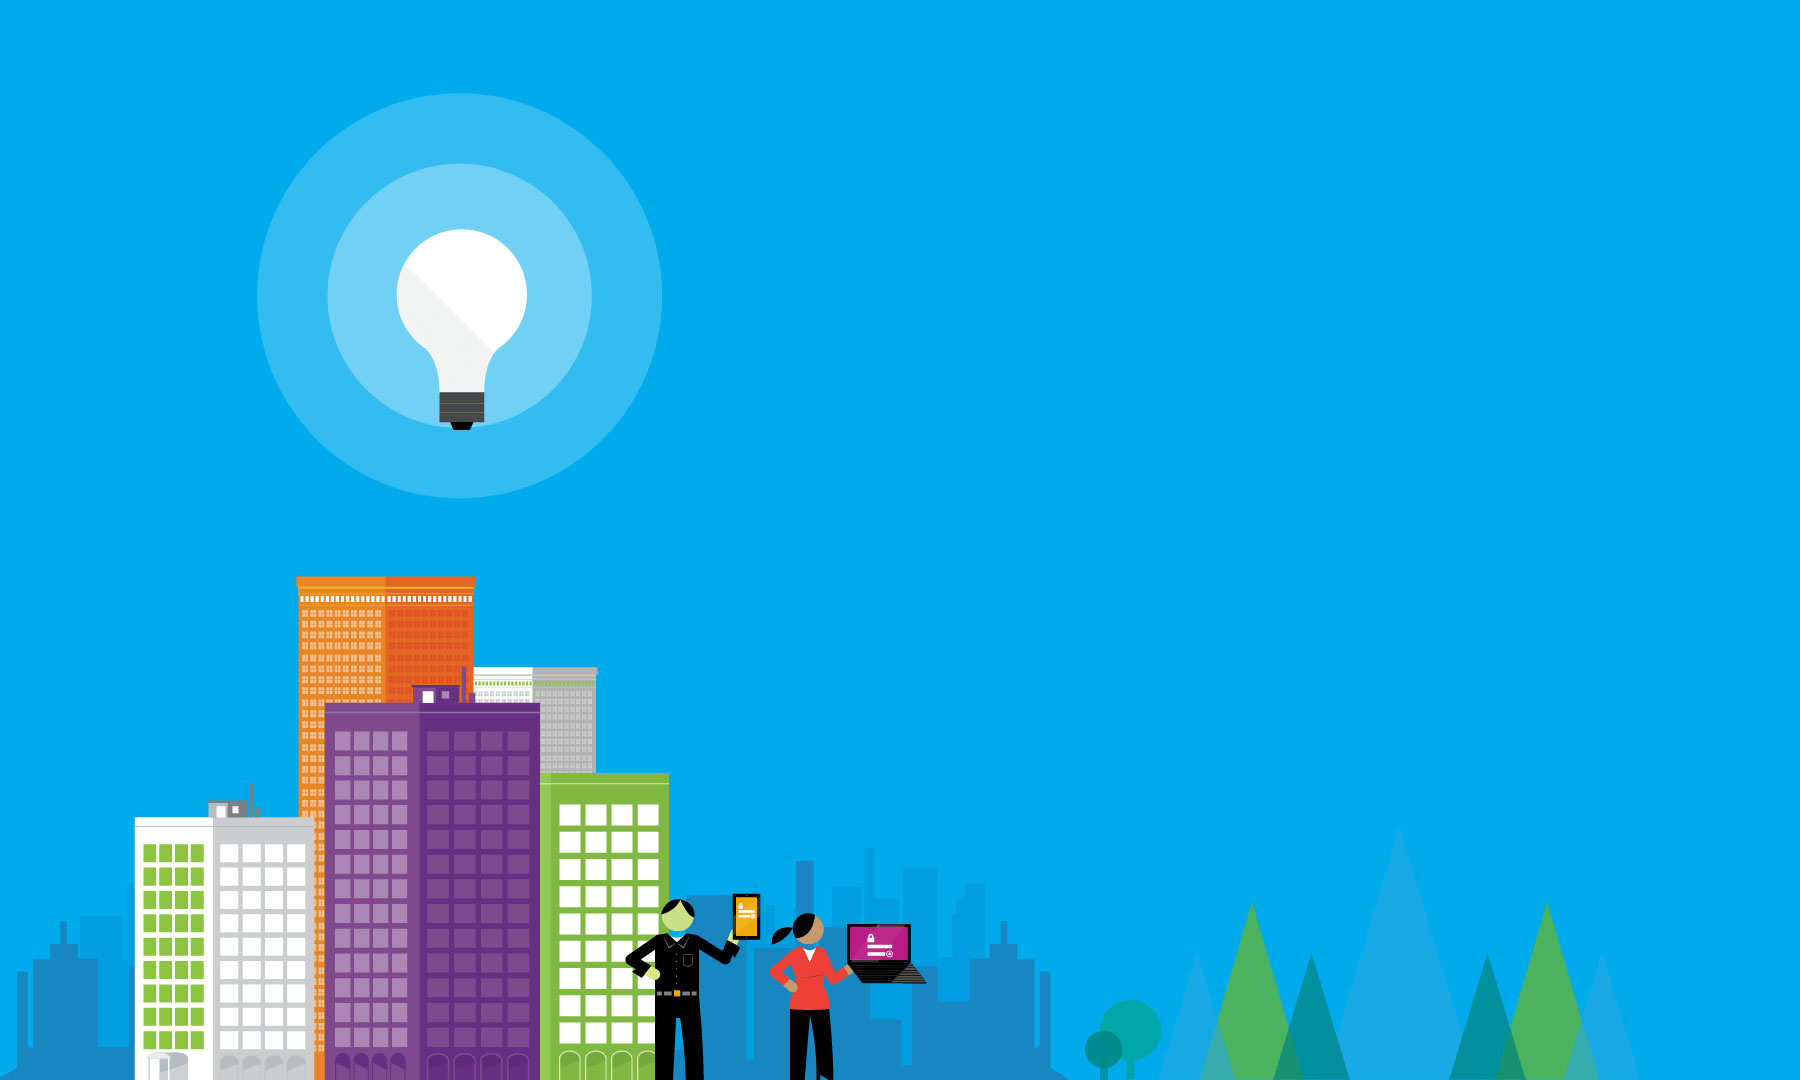
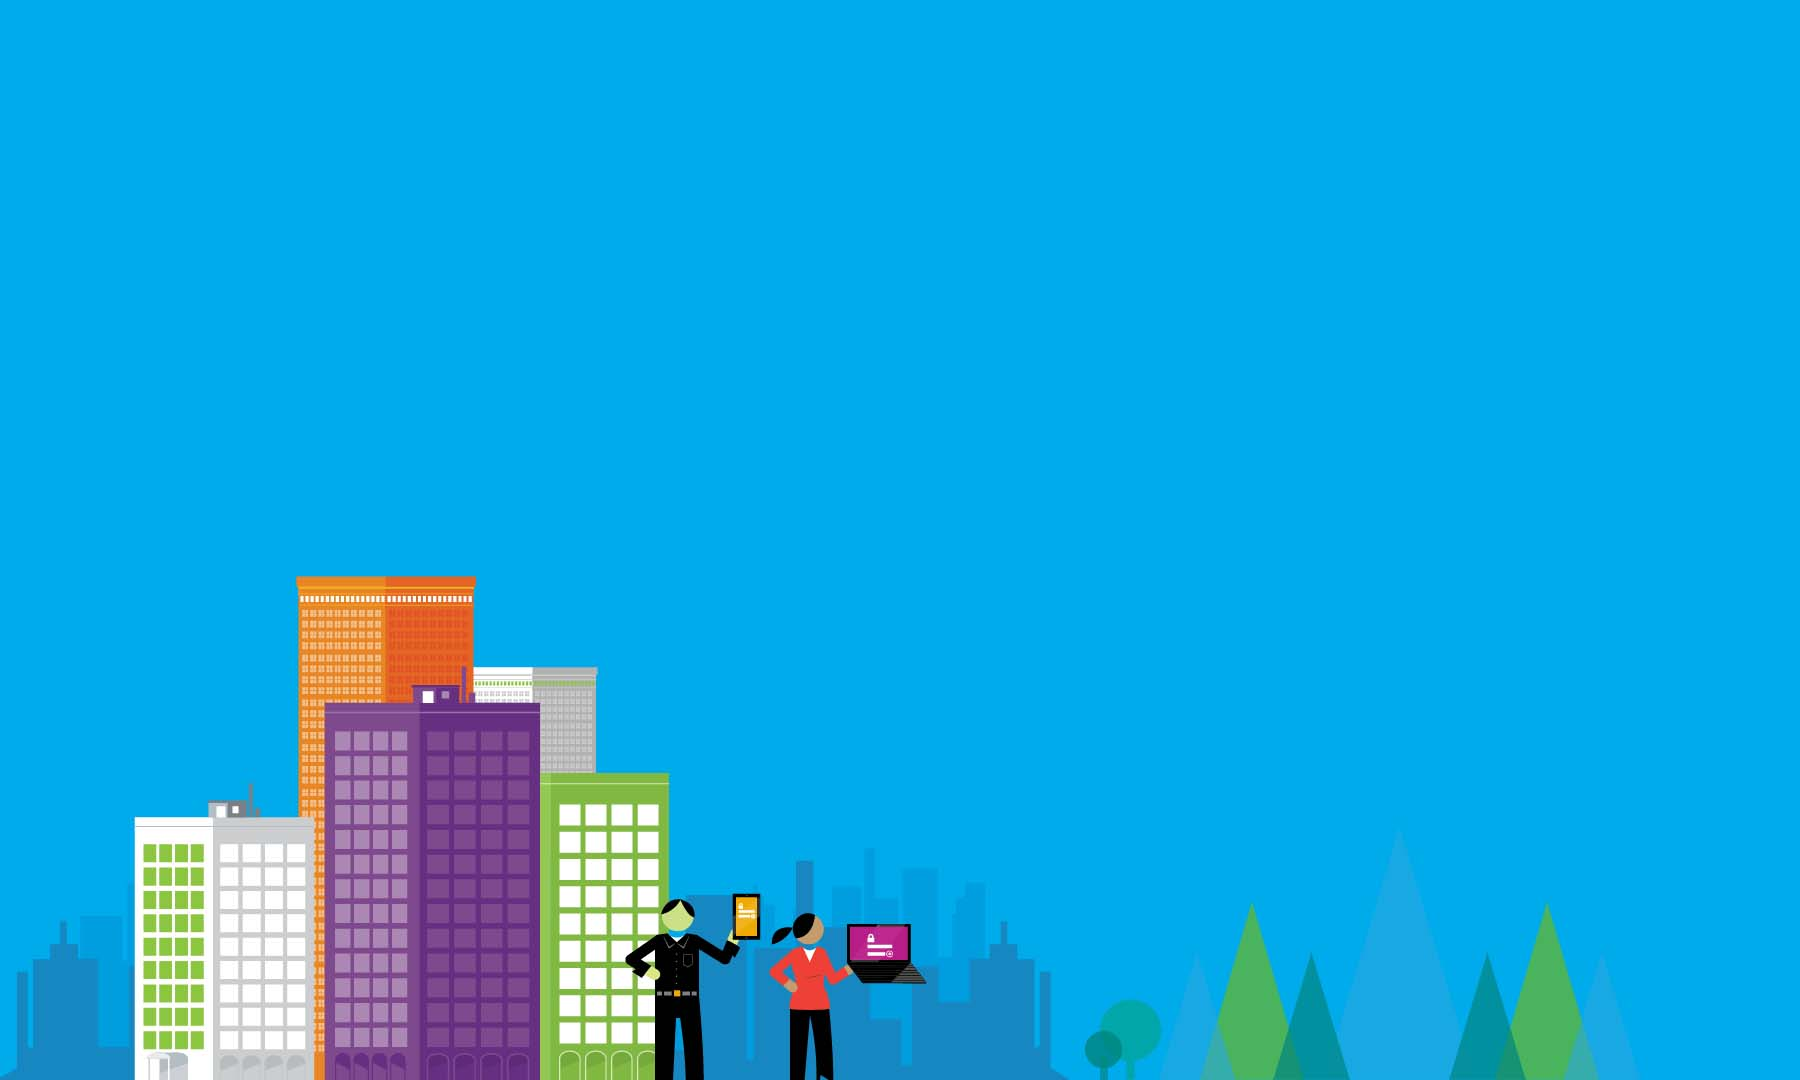
change graphics

diff --git a/assets/css/style.css b/assets/css/style.css
@@ -1,3 +1,27 @@
+/*===== Keyframes ====*/
+@keyframes horizontal-translation {
+	0% {
+        margin-left: 100%;
+    }
+	100% {
+        margin-left: -150%;
+    }
+}
+@keyframes pulse {
+    0% {
+        box-shadow: 0 0 0 0px rgba(113, 208, 245, 0);
+    }
+    45% {
+        box-shadow: 0 0 0 20px rgba(113, 208, 245, 0.6);
+    }
+    /* 100% {
+        box-shadow: 0 0 0 20px rgba(113, 208, 245, 0);
+    } */
+}
+@keyframes pulse-alternate {
+    0% {transform: scale(0.75, 0.75);}
+    30% {transform: scale(1, 1);}
+}
 /*===== General ====*/
 body {
     font-family: 'Montserrat', sans-serif;
@@ -11,9 +35,10 @@ a {
     font-weight: 300
 }
 .intro-right {
+    overflow: hidden;
     min-height: 500px;
     background-color: #333;
-    background: url("../images/background.png") center center no-repeat;
+    background: url("../images/background-noelements.jpg") center center no-repeat;
     background-size: cover 
 }
 .intro-right img.profile {
@@ -23,6 +48,46 @@ a {
     width: 200px;
     transform: translateY(-50%) translateX(-50%);
     /* border: #333 1px solid; */
+}
+
+/*===== Moving elements and effects ====*/
+.pulse {
+    animation: pulse 2s infinite;
+    /* animation: pulse-alternate 0.8s ease-out alternate;
+    animation-iteration-count: infinite; */
+}
+.cloud {
+    position: absolute;
+    background-repeat: no-repeat;
+    background-size: contain;
+}
+.cloud-short {
+    top: 2%;
+    left: 100px;
+    width: 35%;
+    height: 13%;
+    max-width: 183px;
+    max-height: 94px;
+    background-image: url('../images/cloud1.png');
+    animation: horizontal-translation 25s linear infinite;
+}
+.cloud-long {
+    top: 20%;
+    left: 10px;
+    width: 30%;
+    height: 13%;
+    max-width: 232px;
+    max-height: 94px;
+    background-image: url('../images/cloud2.png');
+    animation: horizontal-translation 20s linear infinite;
+}
+.light {
+    position: absolute;
+    top: 7rem;
+    left: -4rem;
+    width: 132px;
+    height: 203px;
+    background-image: url('../images/light.png');
 }
 /*===== Social ====*/
 .social {

diff --git a/index.html b/index.html
@@ -79,7 +79,9 @@
           </div>
         </div>
         <div class="col-xl-6 col-lg-5 col-md-4 intro-right">
-          <img src="./assets/images/ivanporta.jpg" class="profile rounded-circle" alt="Ivan Porta">         
+          <div class="cloud cloud-long"></div>
+          <div class="cloud cloud-short"></div>
+          <img src="./assets/images/ivanporta.jpg" class="profile rounded-circle pulse" alt="Ivan Porta">         
         </div>
       </div>
     </div>
